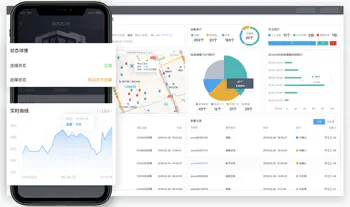
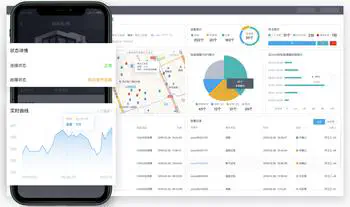
Deploying to gh-pages from @ IMPHM-Lab/IMPHM-Lab.github.io@56cf4436c35e5c6bbbec6c3b3f21cec65acefb10 🚀

diff --git a/event/cong10/index.html b/event/cong10/index.html
@@ -1,6 +1,6 @@
-<!doctype html><html lang=en-us><head><meta charset=utf-8><meta name=viewport content="width=device-width,initial-scale=1"><meta http-equiv=X-UA-Compatible content="IE=edge"><meta name=generator content="Hugo Blox Builder 5.9.7"><link rel=stylesheet href=/css/vendor-bundle.min.26c458e6907dc03073573976b7f4044e.css media=print onload='this.media="all"'><link rel=stylesheet href=https://cdn.jsdelivr.net/gh/jpswalsh/academicons@1.9.4/css/academicons.min.css integrity="sha512-IW0nhlW5MgNydsXJO40En2EoCkTTjZhI3yuODrZIc8cQ4h1XcF53PsqDHa09NqnkXuIe0Oiyyj171BqZFwISBw==" crossorigin=anonymous media=print onload='this.media="all"'><link rel=stylesheet href=https://cdn.jsdelivr.net/npm/leaflet@1.7.1/dist/leaflet.min.css integrity crossorigin=anonymous media=print onload='this.media="all"'><link rel=stylesheet href=/css/wowchemy.b1dc7c45fb7ca87678f78d0378bff737.css><link rel=stylesheet href=/css/libs/chroma/github-light.min.css title=hl-light media=print onload='this.media="all"'><link rel=stylesheet href=/css/libs/chroma/dracula.min.css title=hl-dark media=print onload='this.media="all"' disabled><meta name=description content><link rel=alternate hreflang=en-us href=https://imphm-lab.github.io/event/cong10/><link rel=canonical href=https://imphm-lab.github.io/event/cong10/><link rel=manifest href=/manifest.webmanifest><link rel=icon type=image/png href=/media/icon_hu_9653a34d0331eff9.png><link rel=apple-touch-icon type=image/png href=/media/icon_hu_658dc50d97a91b4e.png><meta name=theme-color content="#1565c0"><meta property="twitter:card" content="summary_large_image"><meta property="twitter:site" content="@GetResearchDev"><meta property="twitter:creator" content="@GetResearchDev"><meta property="twitter:image" content="https://imphm-lab.github.io/event/cong10/featured.png"><meta property="og:type" content="website"><meta property="og:site_name" content="Intelligent Methods for Prognostics and Health Management Laboratory (IMPHM-Lab)"><meta property="og:url" content="https://imphm-lab.github.io/event/cong10/"><meta property="og:title" content="test | Intelligent Methods for Prognostics and Health Management Laboratory (IMPHM-Lab)"><meta property="og:description" content><meta property="og:image" content="https://imphm-lab.github.io/event/cong10/featured.png"><meta property="og:locale" content="en-us"><script type=application/ld+json>{"@context":"https://schema.org","@type":"Event","mainEntityOfPage":{"@type":"WebPage","@id":"https://imphm-lab.github.io/event/cong10/"},"name":"test","image":["https://imphm-lab.github.io/event/cong10/featured.png"],"startDate":"0001-01-01T00:00:00Z","performer":{"@type":"Person","name":"Authors"},"description":""}</script><title>test | Intelligent Methods for Prognostics and Health Management Laboratory (IMPHM-Lab)</title></head><body id=top data-spy=scroll data-offset=70 data-target=#TableOfContents class=page-wrapper data-wc-page-id=6d76bcda8d0b57fa64b4c5a89dcd7451><script src=/js/wowchemy-init.min.4fef3e534144e9903491f0cc6527eccd.js></script><aside class=search-modal id=search><div class=container><section class=search-header><div class="row no-gutters justify-content-between mb-3"><div class=col-6><h1>Search</h1></div><div class="col-6 col-search-close"><a class=js-search href=# aria-label=Close><i class="fas fa-times-circle text-muted" aria-hidden=true></i></a></div></div><div id=search-box><input name=q id=search-query placeholder=Search... autocapitalize=off autocomplete=off autocorrect=off spellcheck=false type=search class=form-control aria-label=Search...></div></section><section class=section-search-results><div id=search-hits></div></section></div></aside><div class=page-header-not-animate><header><nav class="navbar navbar-expand-lg navbar-light compensate-for-scrollbar" id=navbar-main><div class=container-fluid><div class="d-none d-lg-inline-flex"><a class=navbar-brand href=/><img src=/media/logo_hu_6fce439f23f86594.png alt="Intelligent Methods for Prognostics and Health Management Laboratory (IMPHM-Lab)">
+<!doctype html><html lang=en-us><head><meta charset=utf-8><meta name=viewport content="width=device-width,initial-scale=1"><meta http-equiv=X-UA-Compatible content="IE=edge"><meta name=generator content="Hugo Blox Builder 5.9.7"><link rel=stylesheet href=/css/vendor-bundle.min.26c458e6907dc03073573976b7f4044e.css media=print onload='this.media="all"'><link rel=stylesheet href=https://cdn.jsdelivr.net/gh/jpswalsh/academicons@1.9.4/css/academicons.min.css integrity="sha512-IW0nhlW5MgNydsXJO40En2EoCkTTjZhI3yuODrZIc8cQ4h1XcF53PsqDHa09NqnkXuIe0Oiyyj171BqZFwISBw==" crossorigin=anonymous media=print onload='this.media="all"'><link rel=stylesheet href=https://cdn.jsdelivr.net/npm/leaflet@1.7.1/dist/leaflet.min.css integrity crossorigin=anonymous media=print onload='this.media="all"'><link rel=stylesheet href=/css/wowchemy.b1dc7c45fb7ca87678f78d0378bff737.css><link rel=stylesheet href=/css/libs/chroma/github-light.min.css title=hl-light media=print onload='this.media="all"'><link rel=stylesheet href=/css/libs/chroma/dracula.min.css title=hl-dark media=print onload='this.media="all"' disabled><meta name=description content><link rel=alternate hreflang=en-us href=https://imphm-lab.github.io/event/cong10/><link rel=canonical href=https://imphm-lab.github.io/event/cong10/><link rel=manifest href=/manifest.webmanifest><link rel=icon type=image/png href=/media/icon_hu_9653a34d0331eff9.png><link rel=apple-touch-icon type=image/png href=/media/icon_hu_658dc50d97a91b4e.png><meta name=theme-color content="#1565c0"><meta property="twitter:card" content="summary_large_image"><meta property="twitter:site" content="@GetResearchDev"><meta property="twitter:creator" content="@GetResearchDev"><meta property="twitter:image" content="https://imphm-lab.github.io/event/cong10/featured.jpg"><meta property="og:type" content="website"><meta property="og:site_name" content="Intelligent Methods for Prognostics and Health Management Laboratory (IMPHM-Lab)"><meta property="og:url" content="https://imphm-lab.github.io/event/cong10/"><meta property="og:title" content="test | Intelligent Methods for Prognostics and Health Management Laboratory (IMPHM-Lab)"><meta property="og:description" content><meta property="og:image" content="https://imphm-lab.github.io/event/cong10/featured.jpg"><meta property="og:locale" content="en-us"><script type=application/ld+json>{"@context":"https://schema.org","@type":"Event","mainEntityOfPage":{"@type":"WebPage","@id":"https://imphm-lab.github.io/event/cong10/"},"name":"test","image":["https://imphm-lab.github.io/event/cong10/featured.jpg"],"startDate":"0001-01-01T00:00:00Z","performer":{"@type":"Person","name":"Authors"},"description":""}</script><title>test | Intelligent Methods for Prognostics and Health Management Laboratory (IMPHM-Lab)</title></head><body id=top data-spy=scroll data-offset=70 data-target=#TableOfContents class=page-wrapper data-wc-page-id=6d76bcda8d0b57fa64b4c5a89dcd7451><script src=/js/wowchemy-init.min.4fef3e534144e9903491f0cc6527eccd.js></script><aside class=search-modal id=search><div class=container><section class=search-header><div class="row no-gutters justify-content-between mb-3"><div class=col-6><h1>Search</h1></div><div class="col-6 col-search-close"><a class=js-search href=# aria-label=Close><i class="fas fa-times-circle text-muted" aria-hidden=true></i></a></div></div><div id=search-box><input name=q id=search-query placeholder=Search... autocapitalize=off autocomplete=off autocorrect=off spellcheck=false type=search class=form-control aria-label=Search...></div></section><section class=section-search-results><div id=search-hits></div></section></div></aside><div class=page-header-not-animate><header><nav class="navbar navbar-expand-lg navbar-light compensate-for-scrollbar" id=navbar-main><div class=container-fluid><div class="d-none d-lg-inline-flex"><a class=navbar-brand href=/><img src=/media/logo_hu_6fce439f23f86594.png alt="Intelligent Methods for Prognostics and Health Management Laboratory (IMPHM-Lab)">
 <span class=logo-r-text>Intelligent Methods for Prognostics and Health Management Laboratory (IMPHM-Lab)</span></a></div><button type=button class=navbar-toggler data-toggle=collapse data-target=#navbar-content aria-controls=navbar-content aria-expanded=false aria-label="Toggle navigation">
-<span><i class="fas fa-bars"></i></span></button><div class="navbar-brand-mobile-wrapper d-inline-flex d-lg-none"><a class=navbar-brand href=/><img src=/media/logo_hu_6fce439f23f86594.png alt="Intelligent Methods for Prognostics and Health Management Laboratory (IMPHM-Lab)"></a></div><div class="navbar-collapse main-menu-item collapse justify-content-end" id=navbar-content><ul class="navbar-nav d-md-inline-flex"><li class=nav-item><a class=nav-link href=/><span>Home</span></a></li><li class=nav-item><a class=nav-link href=/research><span>Research</span></a></li><li class=nav-item><a class=nav-link href=/people><span>Members</span></a></li><li class=nav-item><a class=nav-link href=/publication><span>Publications</span></a></li><li class=nav-item><a class="nav-link active" href=/event><span>News</span></a></li><li class=nav-item><a class=nav-link href=/courses><span>Courses</span></a></li><li class=nav-item><a class=nav-link href=/joinus><span>Join us</span></a></li></ul></div><ul class="nav-icons navbar-nav flex-row ml-auto d-flex pl-md-2"></ul></div></nav></header><div class=top_bar></div></div><div class="page-body not-home-page-wrapper"><div class=container><div class=row><div class="article-title mt-4 mb-4"><h1 class=mb-0>News</h1></div></div><div class="row news-single-wrap"><h2 class=cat_name>test</h2><div class=show_content_box><div id=vsb_content><div class=v_news_content><p style=text-align:center><img src=/event/cong10/featured.png class=img_vsb_content style=max-width:80%></p><p style=text-align:center></p></div></div></div></div></div><div class=copy><div class=container><p>Copyright 2021 © Industrial Intelligence & Reliability Lab</p></div></div><script src=/js/vendor-bundle.min.d613345003d21781ec611233eea95b85.js></script><script src=https://cdn.jsdelivr.net/npm/leaflet@1.7.1/dist/leaflet.min.js integrity crossorigin=anonymous></script><script id=search-hit-fuse-template type=text/x-template>
+<span><i class="fas fa-bars"></i></span></button><div class="navbar-brand-mobile-wrapper d-inline-flex d-lg-none"><a class=navbar-brand href=/><img src=/media/logo_hu_6fce439f23f86594.png alt="Intelligent Methods for Prognostics and Health Management Laboratory (IMPHM-Lab)"></a></div><div class="navbar-collapse main-menu-item collapse justify-content-end" id=navbar-content><ul class="navbar-nav d-md-inline-flex"><li class=nav-item><a class=nav-link href=/><span>Home</span></a></li><li class=nav-item><a class=nav-link href=/research><span>Research</span></a></li><li class=nav-item><a class=nav-link href=/people><span>Members</span></a></li><li class=nav-item><a class=nav-link href=/publication><span>Publications</span></a></li><li class=nav-item><a class="nav-link active" href=/event><span>News</span></a></li><li class=nav-item><a class=nav-link href=/courses><span>Courses</span></a></li><li class=nav-item><a class=nav-link href=/joinus><span>Join us</span></a></li></ul></div><ul class="nav-icons navbar-nav flex-row ml-auto d-flex pl-md-2"></ul></div></nav></header><div class=top_bar></div></div><div class="page-body not-home-page-wrapper"><div class=container><div class=row><div class="article-title mt-4 mb-4"><h1 class=mb-0>News</h1></div></div><div class="row news-single-wrap"><h2 class=cat_name>test</h2><div class=show_content_box><div id=vsb_content><div class=v_news_content><p style=text-align:center><img src=/event/cong10/featured.jpg class=img_vsb_content style=max-width:80%></p><p style=text-align:center></p></div></div></div></div></div><div class=copy><div class=container><p>Copyright 2021 © Industrial Intelligence & Reliability Lab</p></div></div><script src=/js/vendor-bundle.min.d613345003d21781ec611233eea95b85.js></script><script src=https://cdn.jsdelivr.net/npm/leaflet@1.7.1/dist/leaflet.min.js integrity crossorigin=anonymous></script><script id=search-hit-fuse-template type=text/x-template>
     <div class="search-hit" id="summary-{{key}}">
       <div class="search-hit-content">
         <div class="search-hit-name">
